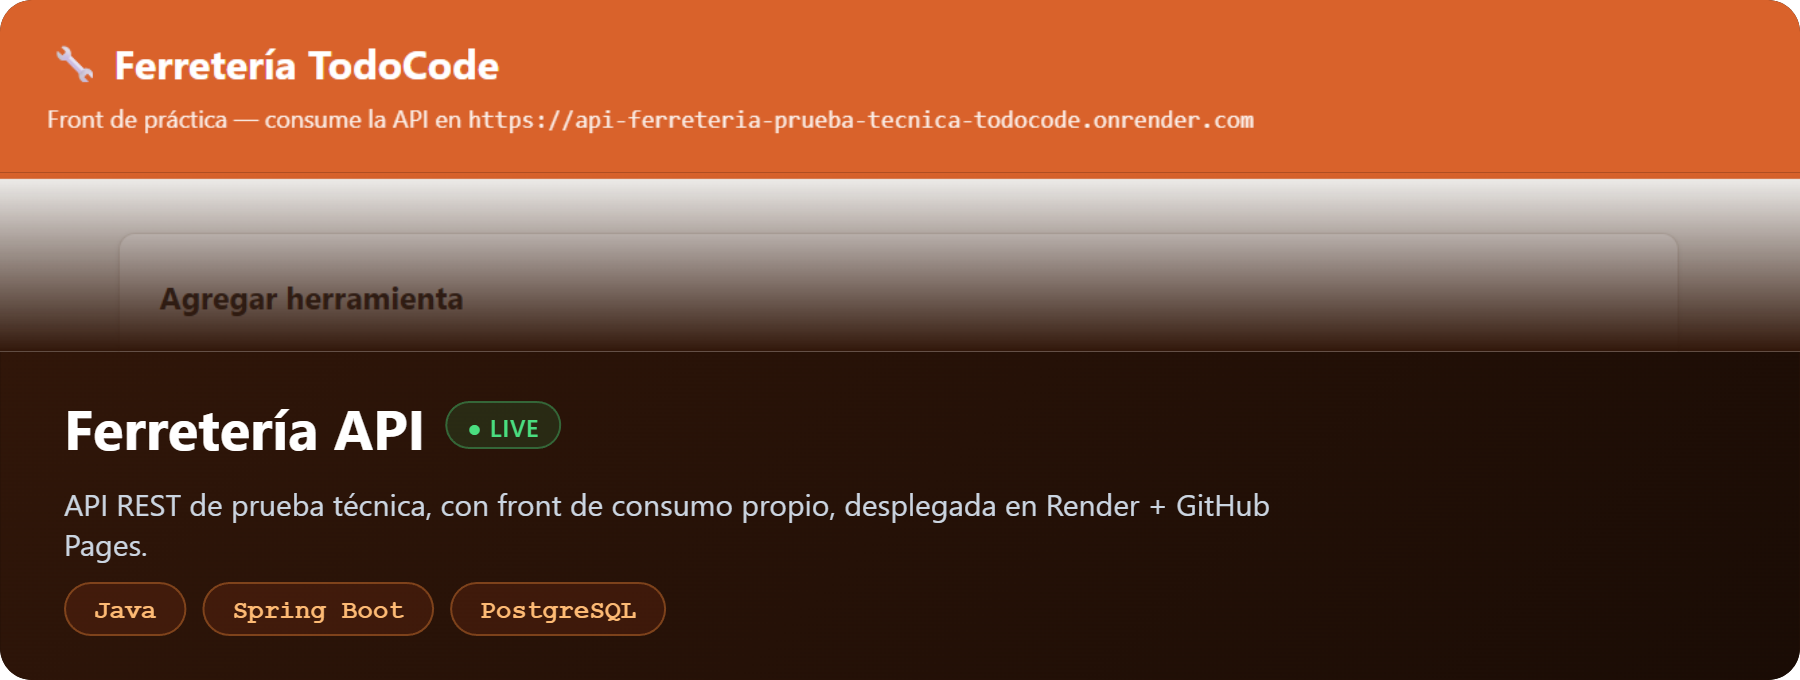
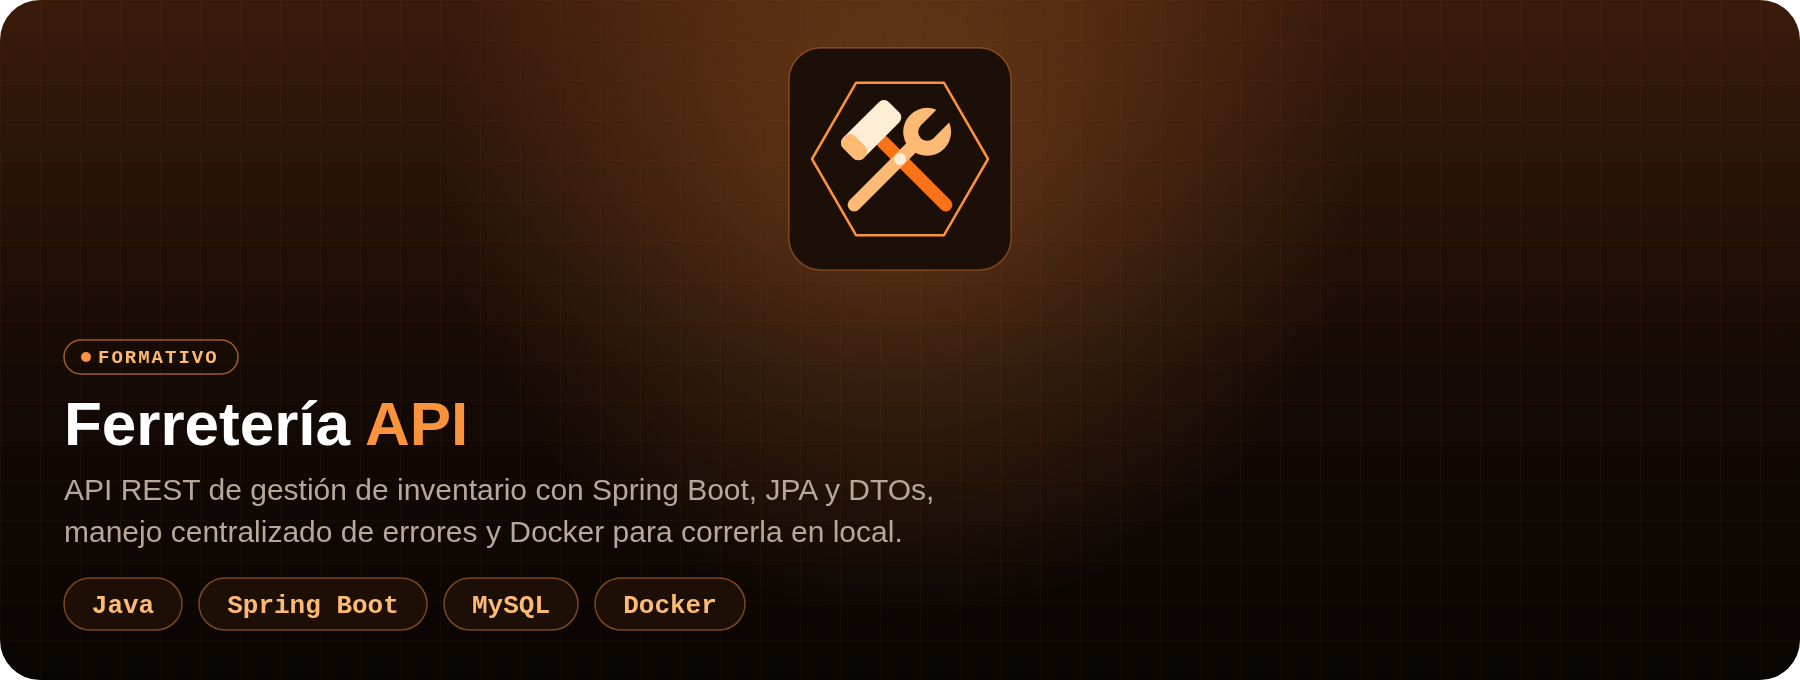
update. Se actualizan las cards de Ferreteria y Bazar, se agrega referencia y card de proyecto CampusGate, se actualiza el estado de Ferretaria -formativo, ya sin despliegue-

diff --git a/README.md b/README.md
@@ -191,25 +191,18 @@ Serie de proyectos que demuestran mis habilidades técnicas y blandas para el de
 
 </div>
 
-> **Bazar** es el proyecto con código visible que mejor refleja mi nivel actual: está publicado y desplegado, y sigue recibiendo mejoras. Parte de un ejercicio práctico (TodoCode Academy) que llevé más lejos para demostrar mis habilidades técnicas, el stack que domino y mis prácticas de análisis y desarrollo.
+> **CampusGate** se encuentra en desarrollo. Es el proyecto con el que consolido **Spring Security**: lo construyo paso a paso con las prácticas actuales (Spring Boot 4 y Spring Security 7) y no con el código que trae el curso, dejando documentada cada decisión de diseño.
 
-[![Bazar](./assets/Bazar-Card.png)](https://github.com/mdev-repos/api_bazar__ejercicio_curso_todocode)
+![CampusGate](./assets/CampusGate-Card.png)
 
-[![Repo](https://img.shields.io/badge/Repo-181717?style=flat-square&logo=github)](https://github.com/mdev-repos/api_bazar__ejercicio_curso_todocode)
-[![API Live](https://img.shields.io/badge/API%20Live-46E3B7?style=flat-square&logo=render&logoColor=white)](https://api-bazar-ejercicio-curso-todocode.onrender.com)
-[![Front Demo](https://img.shields.io/badge/Front%20Demo-00C853?style=flat-square&logo=rocket)](https://mdev-repos.github.io/front_bazar__curso_todocode/)
+API REST de una plataforma educativa (alumnos, profesores y cursos) con **seguridad stateless**: usuarios, roles y permisos modelados desde cero, autenticación con **JWT** y, más adelante, login social con **OAuth2**. Construida con **Java 25 + Spring Boot 4 + Spring Security 7 + MySQL**.
 
-API REST para la gestión de ventas de un bazar: productos, clientes y ventas relacionados
-entre sí, con reportes de negocio (bajo stock, monto vendido por fecha, venta más alta).
-El modelado agrega una entidad `SaleItem` no pedida por la consigna, necesaria para
-resolver correctamente la relación muchos-a-muchos entre venta y producto con datos
-propios (cantidad, precio unitario, subtotal).
-
-Construido con **Java 25 + Spring Boot 4**, arquitectura en capas (Controller → Service
-→ Repository) con **DTOs + Mapper**, manejo centralizado de excepciones (`ProblemDetail`
-/ RFC 7807), y refactor completo a **programación funcional** (Streams). Dockerizado
-(`Dockerfile` + `docker-compose.yml`) y deployado de punta a punta: backend en Render,
-base de datos en Neon (PostgreSQL), front propio consumiéndolo en vivo desde GitHub Pages.
+- **Ya implementado**: modelo de seguridad (permisos y roles como enums, usuarios con flags de cuenta), `UserDetailsService`, emisión y validación de JWT con Nimbus (resource server nativo de Spring), cadena de filtros stateless con *deny by default* y respuestas 401 y 403 en formato `ProblemDetail`.
+- **En camino**:
+  - Login con `AuthenticationManager` y primer administrador creado por *seed* (idempotente y con *fail fast* si falta configuración).
+  - CRUD protegido con `@PreAuthorize` por permiso y reglas de pertenencia (un profesor edita solo sus cursos).
+  - Firma asimétrica (RS256 + JWKS), refresh tokens y login social con OAuth2.
+  - Dockerización y tests.
 
 <br>
 
@@ -247,13 +240,32 @@ Sistema de gestión de consultorios médicos (turnos, historia clínica, insumos
 
 <div align="left">
 
+[![Bazar](./assets/Bazar-Card.png)](https://github.com/mdev-repos/api_bazar__ejercicio_curso_todocode)
+
+[![Repo](https://img.shields.io/badge/Repo-181717?style=flat-square&logo=github)](https://github.com/mdev-repos/api_bazar__ejercicio_curso_todocode)
+[![API Live](https://img.shields.io/badge/API%20Live-46E3B7?style=flat-square&logo=render&logoColor=white)](https://api-bazar-ejercicio-curso-todocode.onrender.com)
+[![Front Demo](https://img.shields.io/badge/Front%20Demo-00C853?style=flat-square&logo=rocket)](https://mdev-repos.github.io/front_bazar__curso_todocode/)
+
+API REST para la gestión de ventas de un bazar: productos, clientes y ventas relacionados
+entre sí, con reportes de negocio (bajo stock, monto vendido por fecha, venta más alta).
+Parte de un ejercicio práctico de TodoCode Academy que llevé más lejos de lo pedido: el
+modelado agrega una entidad `SaleItem` no pedida por la consigna, necesaria para
+resolver correctamente la relación muchos-a-muchos entre venta y producto con datos
+propios (cantidad, precio unitario, subtotal).
+
+Construido con **Java 25 + Spring Boot 4**, arquitectura en capas (Controller → Service
+→ Repository) con **DTOs + Mapper**, manejo centralizado de excepciones (`ProblemDetail`
+/ RFC 7807), y refactor completo a **programación funcional** (Streams). Dockerizado
+(`Dockerfile` + `docker-compose.yml`) y deployado de punta a punta: backend en Render,
+base de datos en Neon (PostgreSQL), front propio consumiéndolo en vivo desde GitHub Pages.
+
+<br>
+
 [![Ferretería API](./assets/Ferreteria-Card.png)](https://github.com/mdev-repos/api_ferreteria__prueba_tecnica_todocode)
 
 [![Repo](https://img.shields.io/badge/Repo-181717?style=flat-square&logo=github)](https://github.com/mdev-repos/api_ferreteria__prueba_tecnica_todocode)
-[![API Live](https://img.shields.io/badge/API%20Live-46E3B7?style=flat-square&logo=render&logoColor=white)](https://api-ferreteria-prueba-tecnica-todocode.onrender.com)
-[![Front Demo](https://img.shields.io/badge/Front%20Demo-00C853?style=flat-square&logo=rocket)](https://mdev-repos.github.io/front_ferreteria__prueba_tecnica_todocode/)
 
-API REST de gestión de una ferretería (prueba técnica de TodoCode Academy) con Spring Boot, JPA y Docker, más un front en JavaScript vanilla funcionando en vivo. Es la antecesora de Bazar, que retoma la idea con un modelo mucho más complejo.
+API REST de gestión de una ferretería (prueba técnica de TodoCode Academy) con Spring Boot, JPA, DTOs y manejo centralizado de errores (`ProblemDetail`), dockerizada para correrla en local con Docker Compose (el README del repositorio explica cómo levantarla). Es la antecesora de Bazar, que retoma la idea con un modelo mucho más complejo. Ya no está desplegada: Bazar la supera y es el que mantiene el despliegue de punta a punta.
 
 <br>
 
